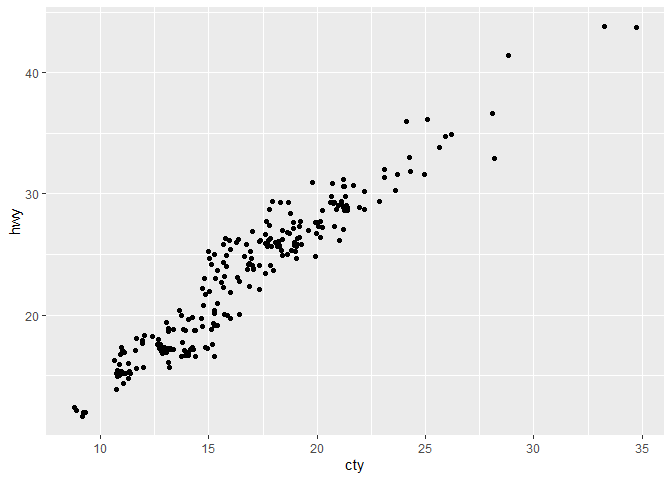
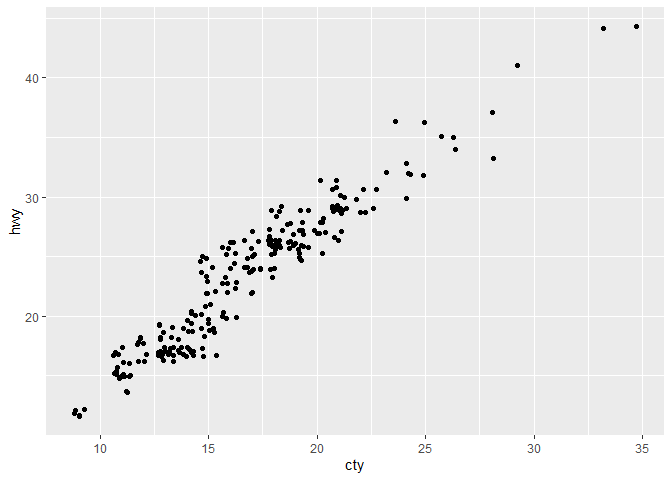
update week 4 part 1, rename part 2 to week 5

diff --git a/r4ds_week5.md b/r4ds_week5.md
@@ -1,0 +1,138 @@
+R4DS Study Group - Week 5
+================
+Pierrette Lo
+5/1/2020
+
+  - [This week’s assignment](#this-weeks-assignment)
+  - [Ch 4: Workflow - basics](#ch-4-workflow---basics)
+  - [Ch 6: Workflow - scripts](#ch-6-workflow---scripts)
+  - [Ch 8: Workflow - projects](#ch-8-workflow---projects)
+  - [R Markdown readings](#r-markdown-readings)
+
+## This week’s assignment
+
+  - Chapters 4, 6, 8
+  - Additional reading on R Markdown
+
+As always, start by loading {tidyverse}
+
+``` r
+library(tidyverse)
+```
+
+## Ch 4: Workflow - basics
+
+### Exercises
+
+> 1.  Why does this code not work?
+
+``` r
+my_variable <- 10
+my_varıable
+```
+
+    ## [1] 10
+
+It’s subtle - in the second line, the “i” is actually a different
+character (“ı”).
+
+Oddly, I did not get an error message - it’s possible that the font I’m
+using in RStudio (Fira Code) recognizes both of those characters as
+being the same.
+
+Regardless, the point is that you can get tripped up by extremely subtle
+typos (missing parentheses, commas, etc.). It’s frustrating at first but
+your eyes and brain will adapt eventually\!
+
+> 2.  Tweak each of the following R commands so that they run correctly:
+
+``` r
+ggplot(dota = mpg) + 
+  geom_point(mapping = aes(x = displ, y = hwy))
+```
+
+    ## Error in FUN(X[[i]], ...): object 'displ' not found
+
+![](r4ds_week5_files/figure-gfm/unnamed-chunk-3-1.png)<!-- -->
+
+``` r
+fliter(mpg, cyl = 8)
+```
+
+    ## Error in fliter(mpg, cyl = 8): could not find function "fliter"
+
+``` r
+filter(diamond, carat > 3)
+```
+
+    ## Error in filter(diamond, carat > 3): object 'diamond' not found
+
+There are typos in all 3 of these commands. If you get an “object not
+found” error, it usually means either you’ve forgotten to define the
+object earlier in your code, or you’ve made a typo somewhere.
+
+If “object not found” refers to a column in your dataset, it could mean
+an error relating to your column name, or an error relating to your
+dataset.
+
+There is an additional error in the filtering of `mpg` - you need the
+double equals sign `==` to test for equality. The single equals sign is
+an assignment operator similar to `<-`.
+
+> 3.  Press Alt + Shift + K. What happens? How can you get to the same
+>     place using the menus?
+
+This brings up the keyboard shortcuts menu. You can also access the list
+of shortcuts by going to the “Tools” menu and selecting “Keyboard
+Shortcuts Help”.
+
+## Ch 6: Workflow - scripts
+
+### Notes
+
+  - Script = code focused. Mark comments with \#
+  - R Notebook = code + plain text. Mark comments in code chunks with
+    \#, or just type in the text area
+  - R Markdown = similar to R Notebook but you can set it up to `knit`
+    into a web page, PDF, Word doc, slides, etc.
+
+> 1.  Go to the RStudio Tips twitter account,
+>     <https://twitter.com/rstudiotips> and find one tip that looks
+>     interesting. Practice using it\!
+
+General note - the R community is super active on Twitter. Follow
+[\#rstats](https://twitter.com/hashtag/rstats) for news, tips, example
+projects, commiseration, and more from beginners to experts.
+
+Follow [\#tidytuesday](https://twitter.com/hashtag/tidytuesday) to see
+what everyone (beginners to experts) is doing with the weekly [Tidy
+Tuesday](https://github.com/rfordatascience/tidytuesday) dataset.
+
+> 2.  What other common mistakes will RStudio diagnostics report? Read
+>     <https://support.rstudio.com/hc/en-us/articles/205753617-Code-Diagnostics>
+>     to find out.
+
+You can paste the above code for exercise 4.2 into an R script to see
+what kinds of messages you get when you enable diagnostics.
+
+## Ch 8: Workflow - projects
+
+### Notes
+
+  - If you just open RStudio by clicking on the icon, it loads the last
+    project you had open (not sure what loads if you’ve never used
+    projects)
+  - You can check your working directory by looking at the bar just
+    under the Console tab
+  - Click on the little arrow beside the directory to open that folder
+    in the Files tab (should load by default when you open the project,
+    but in case you navigated away and need to get back to it)
+  - Don’t save projects or files in the directories that your R or
+    RStudio software are installed in
+
+![screenshot](r4ds_getwd.PNG)
+
+## R Markdown readings
+
+  - Let’s save the R Markdown discussion for a future meeting so we can
+    get back to working with data.

diff --git a/r4ds_week4.md b/r4ds_week4.md
@@ -1,4 +1,4 @@
-R4DS Study Group - Week 4
+R4DS Study Group - Week 4 (part 1)
 ================
 Pierrette Lo
 5/1/2020
@@ -19,6 +19,22 @@ library(tidyverse)
 ```
 
 ## Ch 3:8 Position adjustments
+
+### Notes
+
+  - For bar graphs, the default position is `"stack"`. That means it
+    will take the counts for each group (usually represent by `fill`
+    color) and stack them on top of each other (starting from where the
+    previous group ended).
+  - The `"identity"` position means it will plot the count for each
+    `fill` group literally (so starting from 0). Bars will overlap and
+    be difficult to see.
+  - The `"fill"` position plots proportions of each group, with each bar
+    the same height of 1.
+  - The `"dodge"` position plots bars next to each other.
+  - The `"jitter"` position is for points - it adds a bit of random
+    noise to the position of each point so points with the same value
+    are scattered apart - this makes it easier to see the distribution.
 
 ### Exercises
 
@@ -54,9 +70,14 @@ jitter in vertical and horizontal directions, respectively.
 Use 0.5 to spread the points just enough that individual groups can’t be
 distinguished (without overspreading).
 
+Use `set.seed(any number you want)` before `ggplot()` to reproduce the
+same random noise every time
+
 ``` r
+set.seed(42)
+
 ggplot(data = mpg, mapping = aes(x = cty, y = hwy)) + 
-  geom_jitter(width = 0.1, height = 0.1)
+  geom_jitter(width = 0.5, height = 0.5)
 ```
 
 ![](r4ds_week4_files/figure-gfm/unnamed-chunk-4-1.png)<!-- -->
@@ -92,6 +113,14 @@ ggplot(data = mpg, aes(x = drv, y = hwy, color = class)) +
 
 ## Ch 3:9 Coordinate systems
 
+### Notes:
+
+  - `coord_flip()` has the same effect as reversing the variables you
+    specify for x and y. However, it’s more intuitive to have the
+    dependent variable on the y axis, so it’s easier to set the plot up
+    that way and then flip it, rather than trying to think about having
+    the dependent variable on the x axis.
+
 ### Exercises
 
 > 1.  Turn a stacked bar chart into a pie chart using `coord_polar()`.
@@ -99,7 +128,8 @@ ggplot(data = mpg, aes(x = drv, y = hwy, color = class)) +
 A pie chart is basically a stacked bar graph with a single bar,
 translated onto polar coordinates.
 
-Start by making a bar graph with a dummy variable for `x`.
+Start by making a bar graph with a dummy variable for `x`, since you
+don’t want any information on the x axis.
 
 ``` r
 ggplot(mpg, aes(x = "", fill = class)) +
